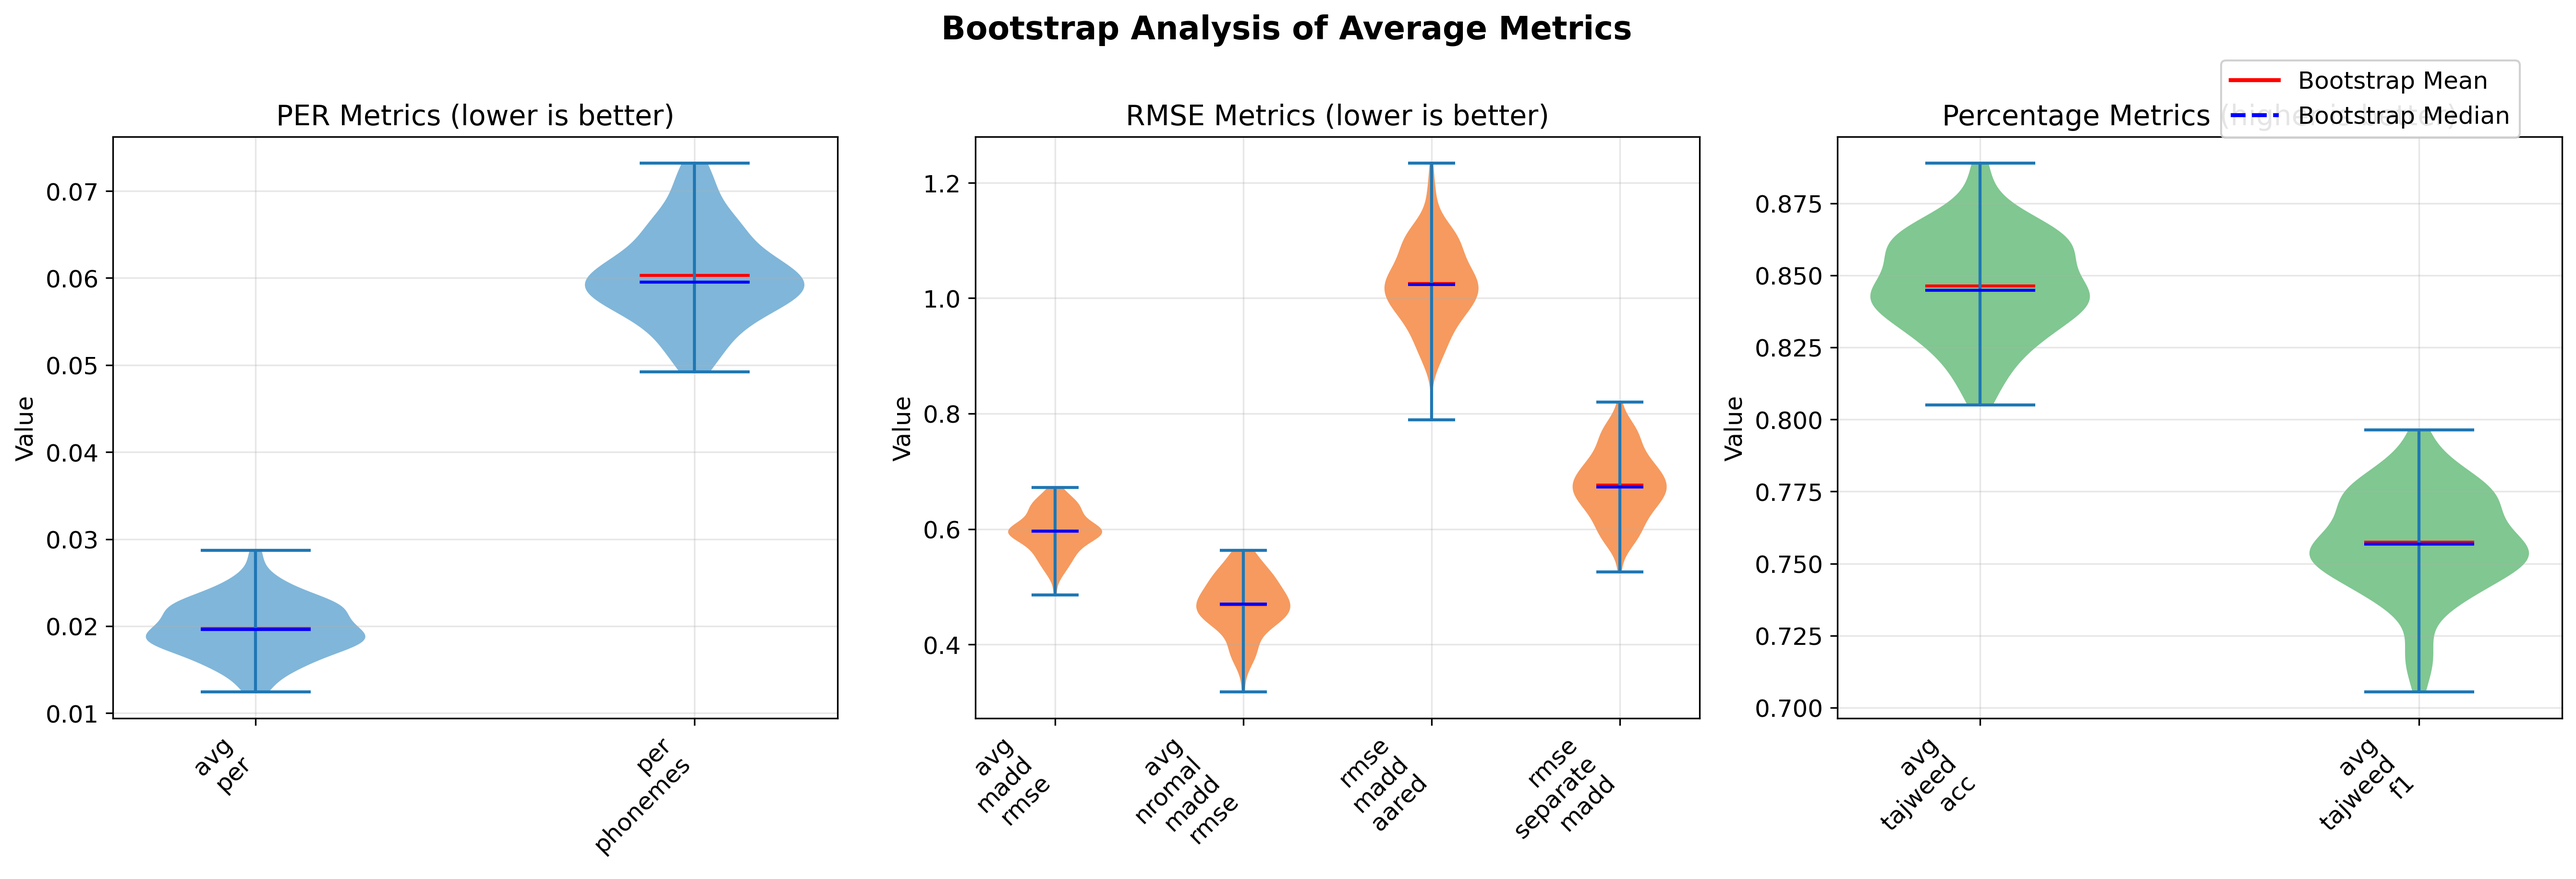
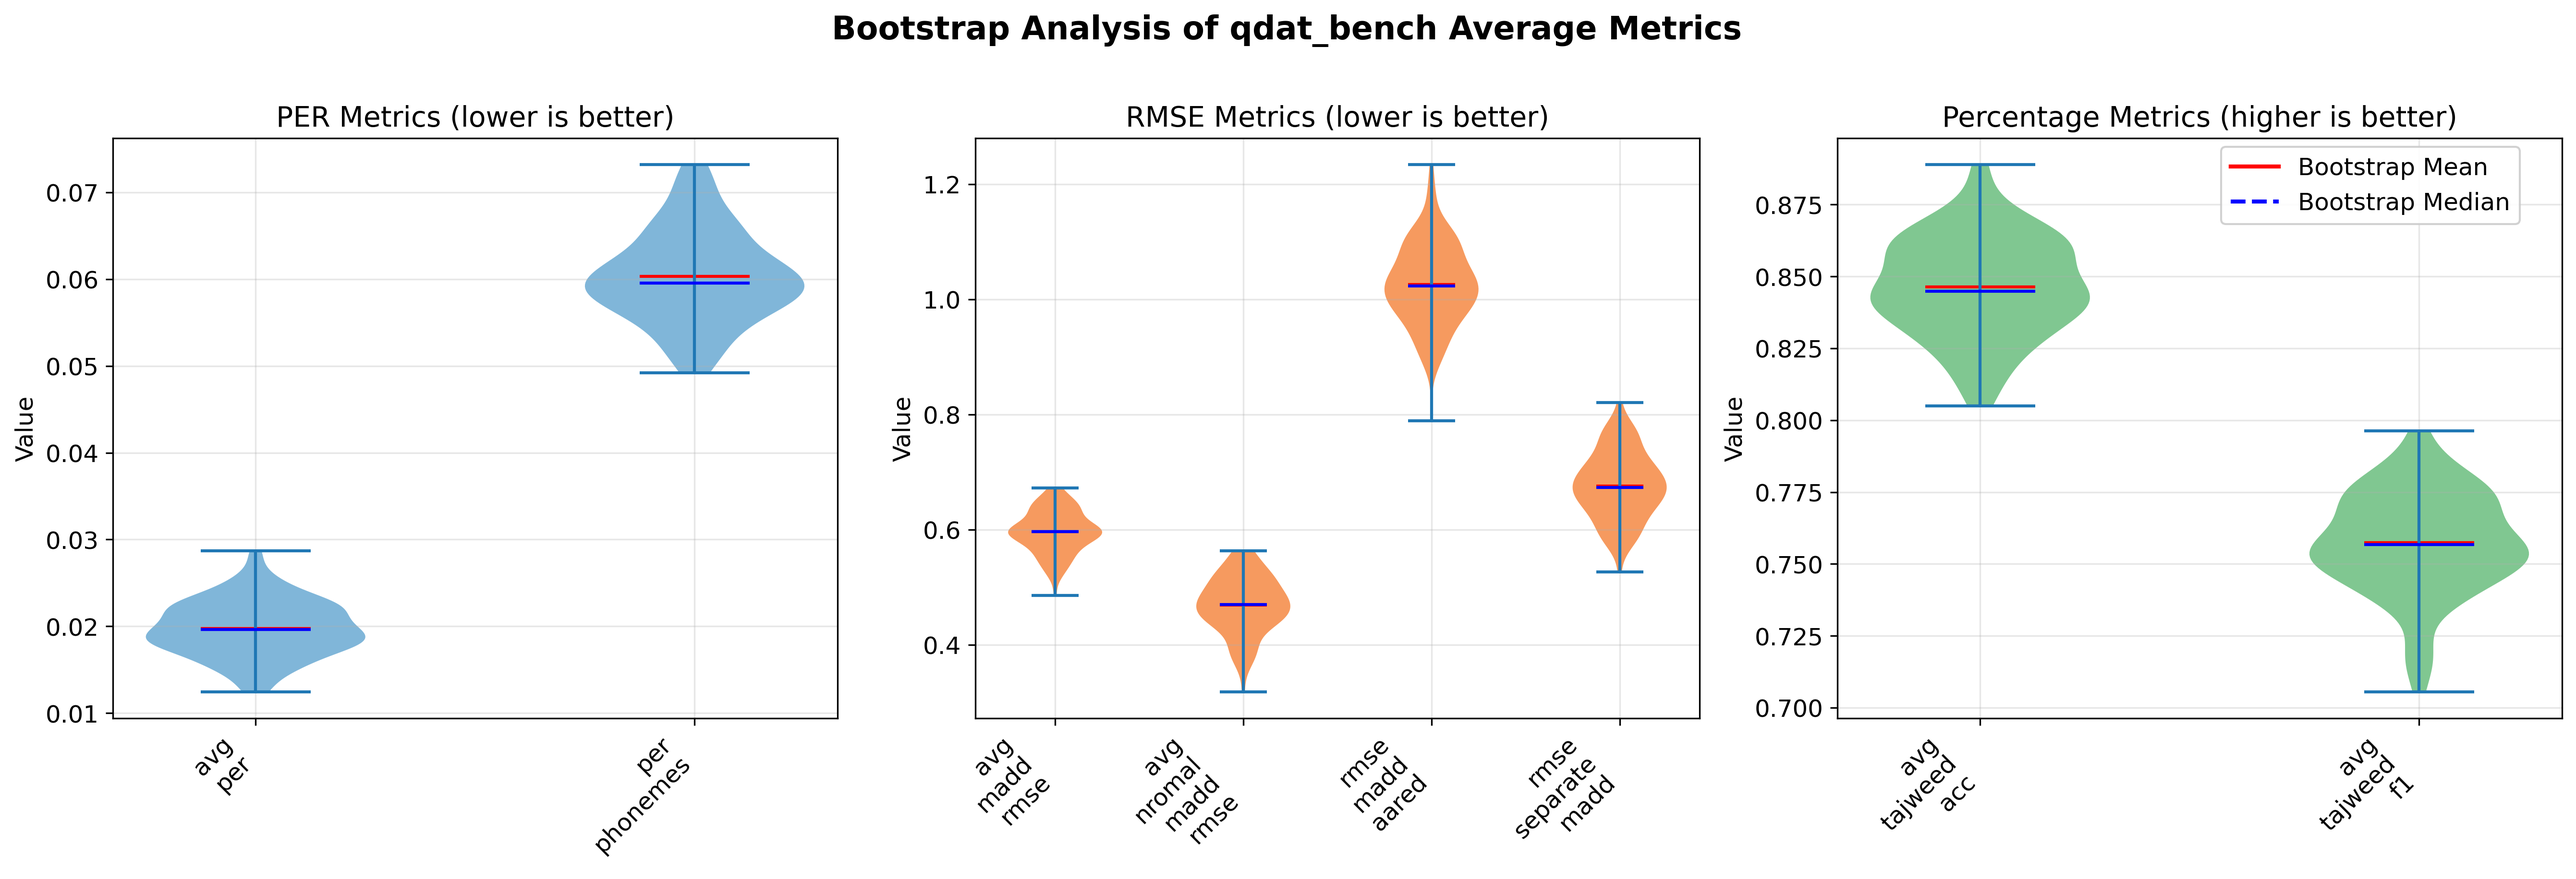
add: more clear title

diff --git a/plot_stats.py b/plot_stats.py
@@ -49,7 +49,7 @@ def group_avg_metrics_for_violin(
 def plot_bootstrap_violin(
     bootstrap_samples_path: str,
     dir: str = "assets",
-    title: str = "Bootstrap Analysis of Average Metrics",
+    title: str = "Bootstrap Analysis of qdat_bench Average Metrics",
 ) -> None:
     """
     Create violin plots for bootstrapped average metrics.
@@ -122,7 +122,7 @@ def plot_bootstrap_violin(
     fig.legend(
         handles=[mean_line, median_line],
         loc="upper right",
-        bbox_to_anchor=(0.98, 0.98),
+        bbox_to_anchor=(0.98, 0.88),
         fontsize=12,
         frameon=True,
         framealpha=0.9,
